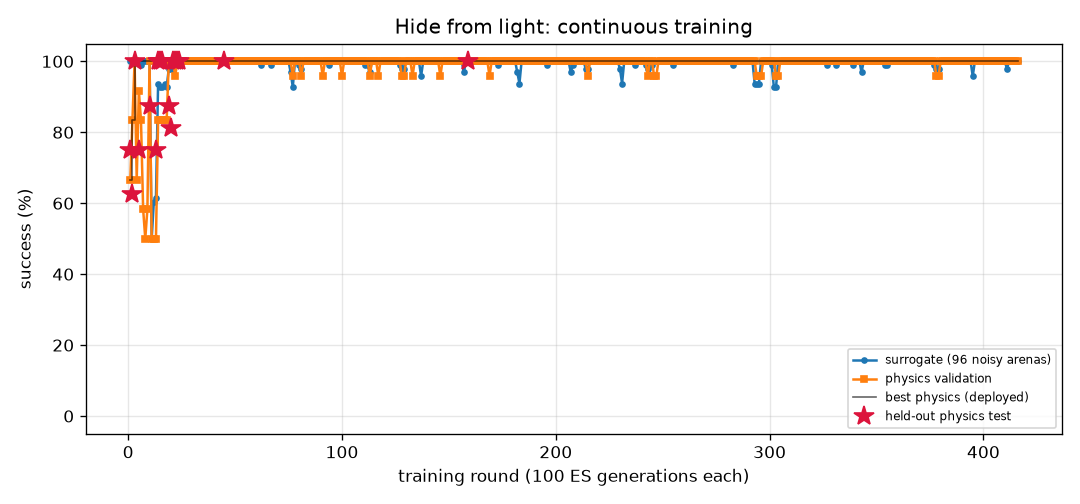
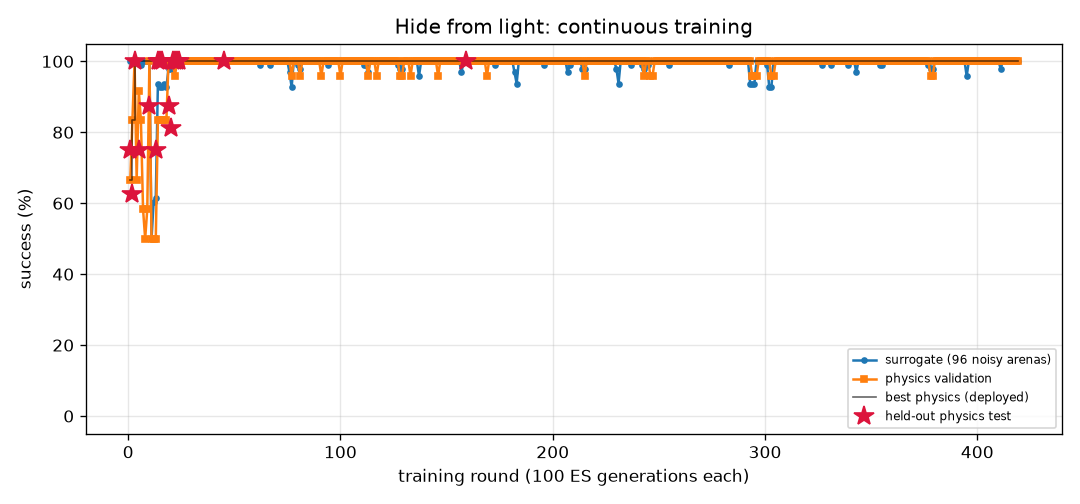
FlyLab: continuous training progress
- walk_forward: optimal, physics val 100% of 24, round 221
- turn: optimal, physics val 100% of 24, round 743
- goto: optimal, physics val 100% of 24, round 186
- odor_seek: optimal, physics val 100% of 24, round 161
- odor_avoid: optimal, physics val 100% of 24, round 690
- light_seek: optimal, physics val 100% of 24, round 383
- light_avoid: optimal, physics val 100% of 24, round 419

diff --git a/projects/09_flylab/training/light_avoid/REPORT.md b/projects/09_flylab/training/light_avoid/REPORT.md
@@ -1,14 +1,14 @@
 # Hide from light (`light_avoid`) — training report
 
-*Auto-generated by `train_brains.py`, last updated 2026-10-29T00:27:07.*
+*Auto-generated by `train_brains.py`, last updated 2026-10-29T12:13:08.*
 
 ![curve](curve.png)
 
 | | |
 |---|---|
-| rounds | 416 |
-| ES generations | 41600 |
-| physics runs | 10256 |
+| rounds | 419 |
+| ES generations | 41900 |
+| physics runs | 10328 |
 | status | **optimal** |
 | best brain | round 159: physics validation **100%** on 24 arenas, surrogate 100% |
 | held-out physics test | **100%** on 32 unseen arenas (95% CI 89%-100%) (errors: [14.4, 56.1, 58.0, 57.9, 57.5, 14.0, 14.4, 56.6, 56.8, 13.3, 14.1, 56.6, 57.6, 13.1, 57.3, 55.9, 57.2, 55.0, 55.2, 53.9, 55.2, 12.4, 53.8, 53.7, 14.1, 13.7, 55.0, 57.8, 56.2, 13.1, 52.8, 56.5]) |
@@ -17,9 +17,6 @@ Physics error per arena: mm gained away from source (> 6 without first approachi
 
 | round | level | gens | sigma | surrogate | physics val | val errors | test | note |
 |---:|---:|---:|---:|---:|---:|---|---:|---|
-| 377 | 3 | 37700 | 0.024 | 99% | 100% | [46.0, 46.5, 46.8, 45.7, 41.9, 45.0, 46.4, 14.5, 13.0, 13.4, 10.1, 42.8, 14.4, 40.5, 46.6, 45.3, 14.2, 43.2, 45.6, 14.4, 45.3, 11.0, 45.4, 41.0] |  |  |
-| 378 | 3 | 37800 | 0.025 | 98% | 96% | [45.0, 45.6, 45.6, 44.9, 42.9, 45.1, 45.0, 14.5, 13.0, 13.4, 10.2, 42.6, 14.4, 7.7, 45.6, 44.2, 14.2, 43.8, 45.8, 14.4, 44.9, 11.2, 44.5, 41.9] |  |  |
-| 379 | 3 | 37900 | 0.025 | 98% | 96% | [52.8, 57.0, 56.7, 53.8, 56.8, 52.5, 55.4, 14.5, 13.0, 13.4, 10.2, 56.5, 14.4, 8.0, 56.9, 53.4, 14.2, 57.0, 57.6, 14.4, 50.8, 11.3, 55.2, 55.9] |  | restart from best |
 | 380 | 3 | 38000 | 0.024 | 100% | 100% | [53.9, 56.3, 56.4, 54.1, 52.6, 53.7, 56.4, 14.5, 12.2, 13.4, 52.4, 52.4, 14.4, 50.6, 56.5, 54.0, 14.2, 53.7, 56.0, 14.4, 52.7, 51.3, 56.1, 51.6] |  |  |
 | 381 | 3 | 38100 | 0.024 | 100% | 100% | [55.3, 59.2, 58.8, 56.1, 56.9, 56.4, 58.1, 14.5, 47.0, 13.6, 56.2, 56.9, 14.4, 54.9, 58.9, 56.4, 14.2, 58.0, 59.1, 14.4, 56.3, 55.7, 57.9, 55.8] |  |  |
 | 382 | 3 | 38200 | 0.024 | 100% | 100% | [43.6, 45.1, 45.2, 43.6, 39.8, 43.3, 44.6, 14.5, 12.9, 13.4, 39.8, 41.7, 14.4, 39.9, 45.2, 43.4, 14.2, 41.9, 44.5, 14.4, 43.4, 39.0, 44.0, 39.1] |  |  |
@@ -57,3 +54,6 @@ Physics error per arena: mm gained away from source (> 6 without first approachi
 | 414 | 3 | 41400 | 0.024 | 100% | 100% | [46.0, 47.5, 46.7, 47.7, 50.5, 46.5, 44.7, 14.5, 47.4, 13.5, 50.6, 50.8, 14.4, 50.1, 47.0, 47.4, 14.2, 50.7, 47.4, 14.4, 47.0, 49.9, 44.9, 51.0] |  |  |
 | 415 | 3 | 41500 | 0.024 | 100% | 100% | [57.2, 61.9, 61.6, 57.8, 61.7, 58.6, 60.4, 14.5, 57.0, 13.3, 60.1, 61.5, 14.4, 59.5, 61.7, 57.3, 14.2, 62.2, 62.3, 14.4, 58.5, 60.3, 59.9, 60.9] |  | restart from best |
 | 416 | 3 | 41600 | 0.024 | 100% | 100% | [57.0, 58.8, 58.6, 56.7, 58.5, 57.0, 57.4, 14.5, 54.1, 13.3, 57.8, 58.3, 14.4, 56.4, 58.7, 56.6, 14.2, 59.0, 59.3, 14.4, 55.0, 57.5, 57.2, 57.8] |  |  |
+| 417 | 3 | 41700 | 0.024 | 100% | 100% | [43.2, 44.1, 43.7, 44.7, 47.1, 42.8, 41.5, 14.5, 43.8, 13.3, 47.0, 47.5, 14.4, 46.9, 43.8, 44.8, 14.2, 46.9, 44.6, 14.4, 43.3, 46.8, 42.9, 47.4] |  |  |
+| 418 | 3 | 41800 | 0.024 | 100% | 100% | [48.5, 46.6, 46.2, 47.7, 49.5, 49.0, 44.5, 14.5, 48.7, 13.3, 49.1, 49.6, 14.4, 48.7, 46.1, 48.6, 14.2, 49.5, 45.7, 14.4, 47.9, 49.5, 45.9, 48.7] |  |  |
+| 419 | 3 | 41900 | 0.024 | 100% | 100% | [55.4, 57.8, 57.7, 55.5, 56.3, 55.3, 57.0, 14.5, 51.5, 13.3, 55.3, 56.0, 14.4, 55.2, 57.8, 54.9, 14.2, 57.0, 58.2, 14.4, 53.0, 54.7, 57.0, 55.4] |  | restart from best |

diff --git a/projects/09_flylab/training/light_seek/REPORT.md b/projects/09_flylab/training/light_seek/REPORT.md
@@ -1,14 +1,14 @@
 # Walk toward light (`light_seek`) — training report
 
-*Auto-generated by `train_brains.py`, last updated 2026-10-29T00:16:51.*
+*Auto-generated by `train_brains.py`, last updated 2026-10-29T11:58:10.*
 
 ![curve](curve.png)
 
 | | |
 |---|---|
-| rounds | 382 |
-| ES generations | 38200 |
-| physics runs | 6048 |
+| rounds | 383 |
+| ES generations | 38300 |
+| physics runs | 6072 |
 | status | **optimal** |
 | best brain | round 375: physics validation **100%** on 24 arenas, surrogate 100% |
 | held-out physics test | **100%** on 32 unseen arenas (95% CI 89%-100%) (errors: [0.57, 0.54, 0.53, 0.57, 0.55, 0.56, 0.59, 0.56, 0.53, 0.56, 0.71, 0.56, 0.55, 0.54, 0.53, 0.54, 0.54, 0.55, 0.52, 0.65, 0.64, 0.7, 0.58, 0.57, 0.6, 0.62, 0.55, 0.88, 0.54, 0.52, 0.62, 0.57]) |
@@ -17,7 +17,6 @@ Physics error per arena: mm from target at the end (< 1.5 and standing still = s
 
 | round | level | gens | sigma | surrogate | physics val | val errors | test | note |
 |---:|---:|---:|---:|---:|---:|---|---:|---|
-| 343 | 3 | 34300 | 0.024 | 100% | 100% | [0.5, 0.5, 0.49, 0.57, 0.53, 0.55, 0.52, 1.31, 0.5, 0.51, 0.64, 0.77, 0.56, 0.5, 0.5, 0.5, 0.55, 0.52, 0.56, 0.56, 0.5, 0.6, 0.5, 0.49] |  | restart from best |
 | 344 | 3 | 34400 | 0.024 | 100% | 79% | [0.56, 0.61, 0.53, 0.51, 0.6, 0.5, 0.49, 0.54, 0.54, 0.49, 1.45, 0.63, 0.62, 1.96, 1.45, 0.69, 0.49, 0.51, 0.54, 0.57, 1.55, 0.48, 1.58, 1.18] |  |  |
 | 345 | 3 | 34500 | 0.024 | 100% | 100% | [0.64, 0.56, 0.63, 0.63, 0.55, 0.82, 0.71, 0.61, 0.62, 0.62, 0.62, 0.63, 0.68, 0.72, 0.61, 0.74, 0.62, 0.64, 0.57, 0.56, 0.55, 0.73, 0.74, 0.57] |  |  |
 | 346 | 3 | 34600 | 0.024 | 100% | 100% | [0.49, 0.47, 0.5, 0.48, 0.54, 0.54, 0.56, 0.51, 0.58, 0.52, 0.45, 0.5, 0.58, 0.54, 0.63, 0.45, 0.48, 0.53, 0.48, 0.5, 0.53, 1.07, 0.99, 0.61] |  |  |
@@ -57,3 +56,4 @@ Physics error per arena: mm from target at the end (< 1.5 and standing still = s
 | 380 | 3 | 38000 | 0.024 | 100% | 100% | [0.59, 1.33, 0.57, 0.58, 0.81, 0.97, 0.65, 0.96, 0.54, 0.45, 0.59, 0.59, 0.45, 0.83, 0.52, 0.62, 0.68, 0.49, 0.62, 0.6, 0.6, 0.6, 0.53, 0.53] |  |  |
 | 381 | 3 | 38100 | 0.024 | 100% | 79% | [3.36, 0.55, 0.44, 3.78, 0.5, 0.62, 0.53, 0.71, 0.46, 0.48, 0.47, 0.57, 0.49, 0.49, 6.83, 0.49, 0.5, 0.51, 0.49, 0.64, 0.67, 2.96, 0.49, 1.29] |  |  |
 | 382 | 3 | 38200 | 0.024 | 100% | 100% | [0.43, 0.49, 0.48, 0.44, 0.48, 0.53, 0.54, 0.49, 0.53, 0.46, 0.5, 0.58, 0.47, 0.45, 0.43, 0.43, 0.47, 0.43, 0.5, 0.47, 0.53, 0.51, 0.49, 0.55] |  |  |
+| 383 | 3 | 38300 | 0.024 | 100% | 96% | [0.84, 0.55, 0.75, 0.9, 0.78, 0.48, 0.8, 0.79, 0.48, 0.74, 0.48, 0.49, 0.45, 0.91, 1.03, 0.9, 0.43, 0.43, 0.74, 0.47, 0.41, 0.46, 0.5, 0.94] |  | restart from best |

diff --git a/projects/09_flylab/training/TRAINING.md b/projects/09_flylab/training/TRAINING.md
@@ -1,6 +1,6 @@
 # FlyLab brains — continuous training log
 
-*Auto-generated by `train_brains.py`, last updated 2026-10-29T11:17:39.*
+*Auto-generated by `train_brains.py`, last updated 2026-10-29T12:13:09.*
 
 Every skill has its own brain and its own training process: surrogate ES rounds, physics validation in MuJoCo, keep-the-best selection, and a held-out physics test that is never used for selection. See each skill's report for its full round-by-round history. Mastery is progressive: passing a level (100% physics validation, >=95% surrogate) doubles the validation and test arena sets; a brain is **optimal** once it holds up at level 3 (>=95% of 24 validation arenas) AND scores >=90% on the 32 held-out test arenas. Test columns show 95% Wilson confidence intervals.
 
@@ -11,5 +11,5 @@ Every skill has its own brain and its own training process: surrogate ES rounds,
 | [Go to a location](goto/REPORT.md) | 186 | 18600 | 4414 | 100% | 100% of 24 | 100% of 32 (CI 89-100%) | **optimal** |
 | [Find food by smell](odor_seek/REPORT.md) | 161 | 16100 | 3294 | 100% | 100% of 24 | 100% of 32 (CI 89-100%) | **optimal** |
 | [Escape a bad smell](odor_avoid/REPORT.md) | 690 | 69000 | 13866 | 97% | 100% of 24 | 97% of 32 (CI 84-99%) | **optimal** |
-| [Walk toward light](light_seek/REPORT.md) | 382 | 38200 | 6048 | 100% | 100% of 24 | 100% of 32 (CI 89-100%) | **optimal** |
-| [Hide from light](light_avoid/REPORT.md) | 416 | 41600 | 10256 | 100% | 100% of 24 | 100% of 32 (CI 89-100%) | **optimal** |
+| [Walk toward light](light_seek/REPORT.md) | 383 | 38300 | 6072 | 100% | 100% of 24 | 100% of 32 (CI 89-100%) | **optimal** |
+| [Hide from light](light_avoid/REPORT.md) | 419 | 41900 | 10328 | 100% | 100% of 24 | 100% of 32 (CI 89-100%) | **optimal** |
